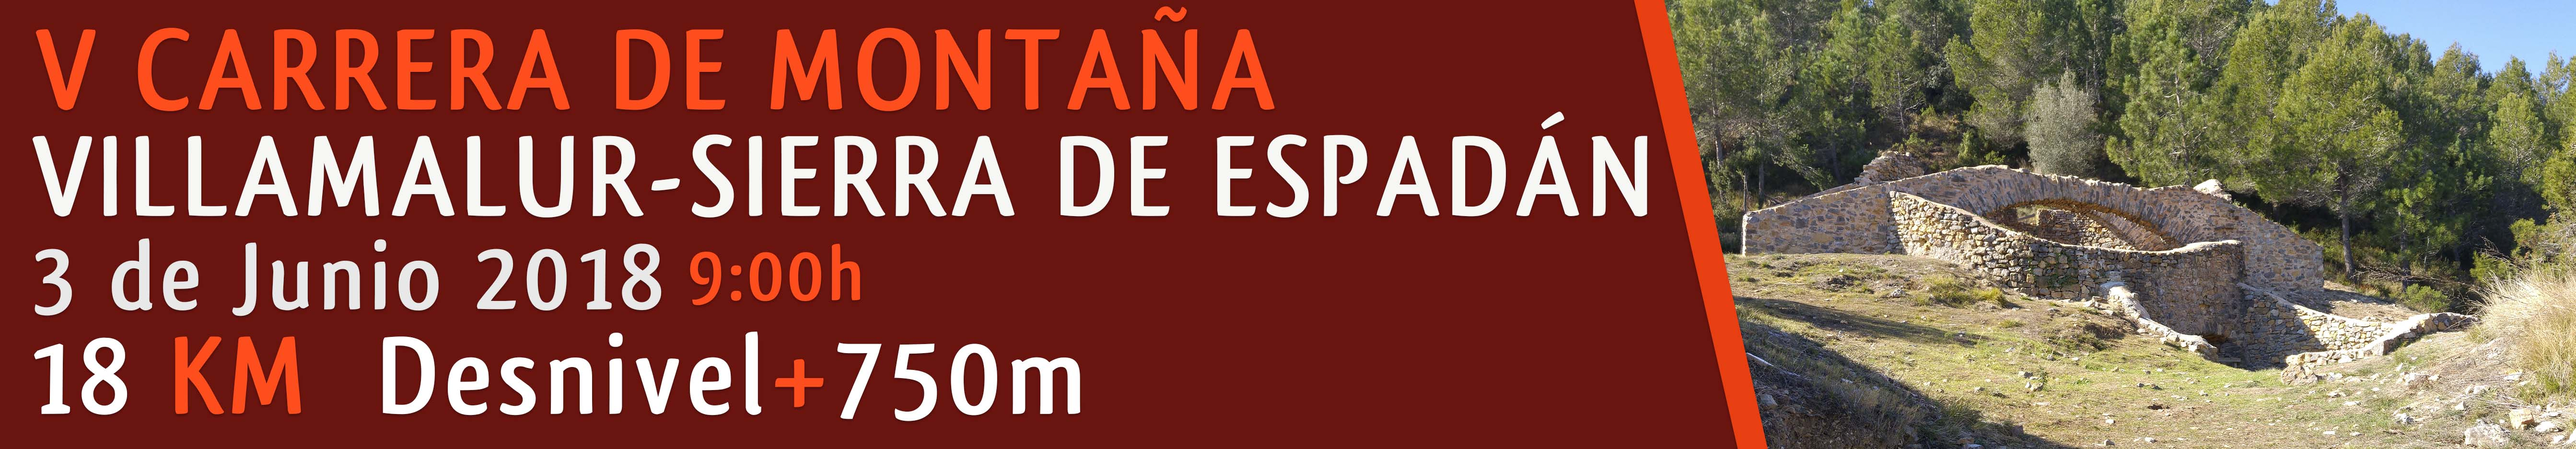
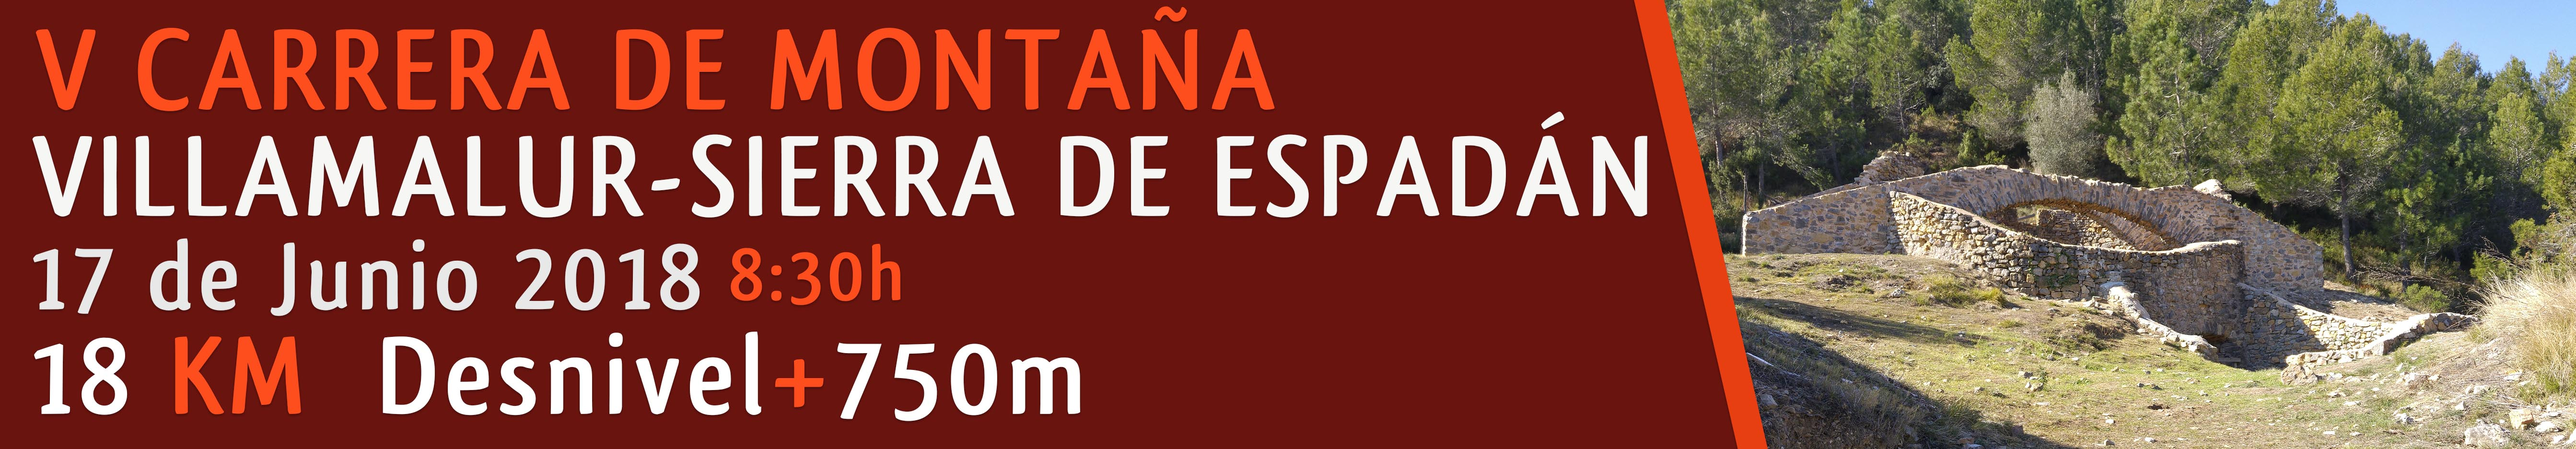
Cambios aplazamiento

Changed region(s): [[0.0, 0.5261, 0.373, 0.7118]]

diff --git a/index.html b/index.html
@@ -81,8 +81,8 @@
 			      
 			      
 			      
-			    <p>La quinta edición de la Carrera de Montaña Villamalur-Sierra de Espadán ya está en marcha. Podeís ver el cartel a continuación.Hemos actualizado el resto de secciones, 
-				incluyendo el recorrido casi definitivo de 2018, ligeramente modificado para disponer de más kilómetros de senda y menos de asfalto y pista. </p>
+			    <p>La quinta edición de la Carrera de Montaña Villamalur-Sierra de Espadán ha sido aplazada al domingo 17 de Junio por motivos meteorológicos de fuerza mayor. ya está en marcha. Podeís ver el cartel a continuación. 
+				Además, debido a esta nueva fecha, se ha adelantado la salida a las 8:30 para combatir el calor. El recorrido de 2018, ligeramente modificado, dispone de más sendas y menos de asfalto y pista. </p>
 				<br/>
 				
 				 <p>Anímate a inscribirte <a href="http://www.free-run.es/component/k2/item/53-v-carrera-montana-villamalur-sierra-de-espadan">aquí</a> para disfrutar de un magnífico ambiente! </p>
